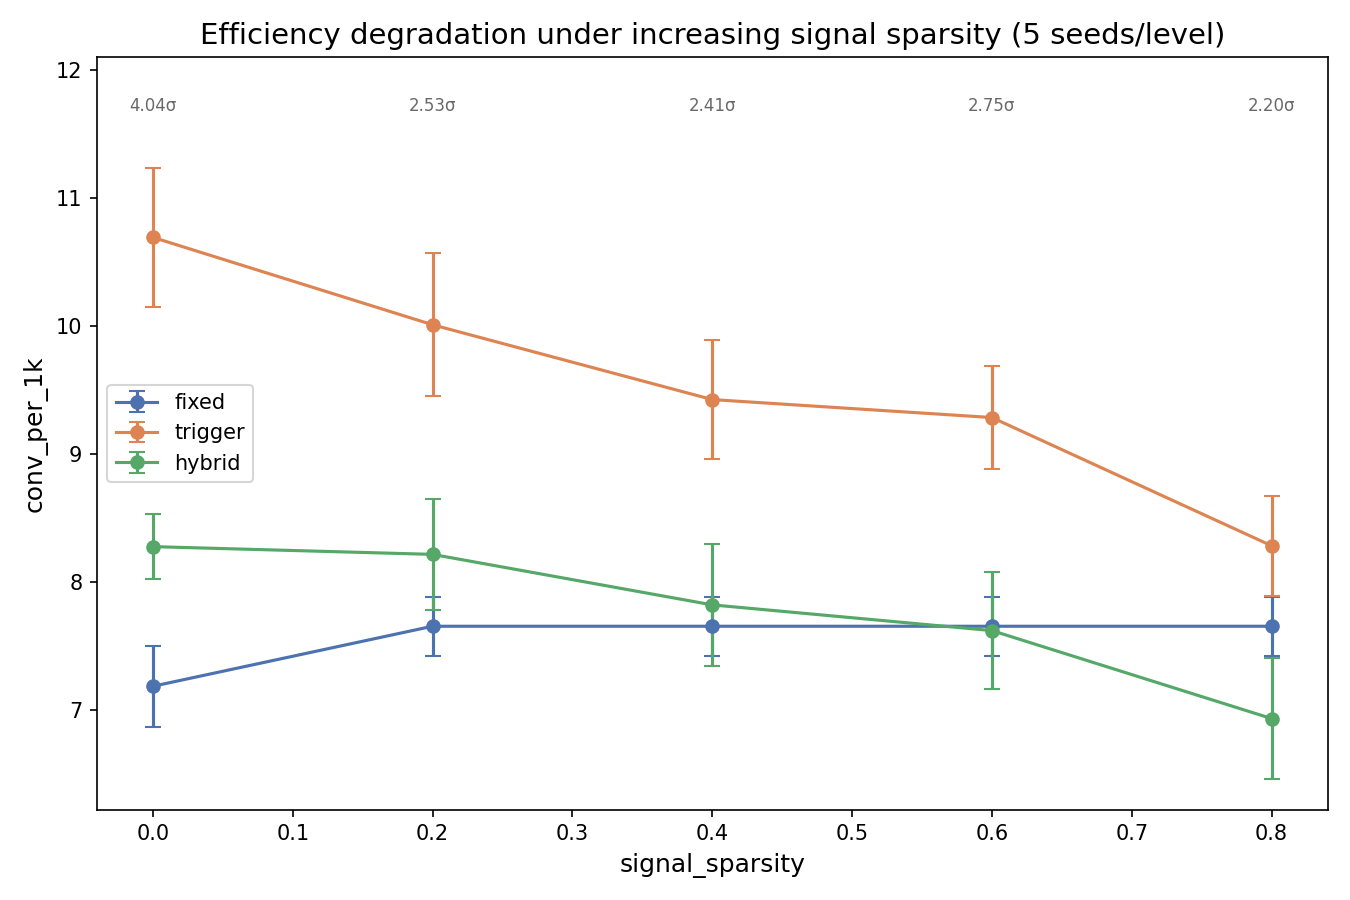
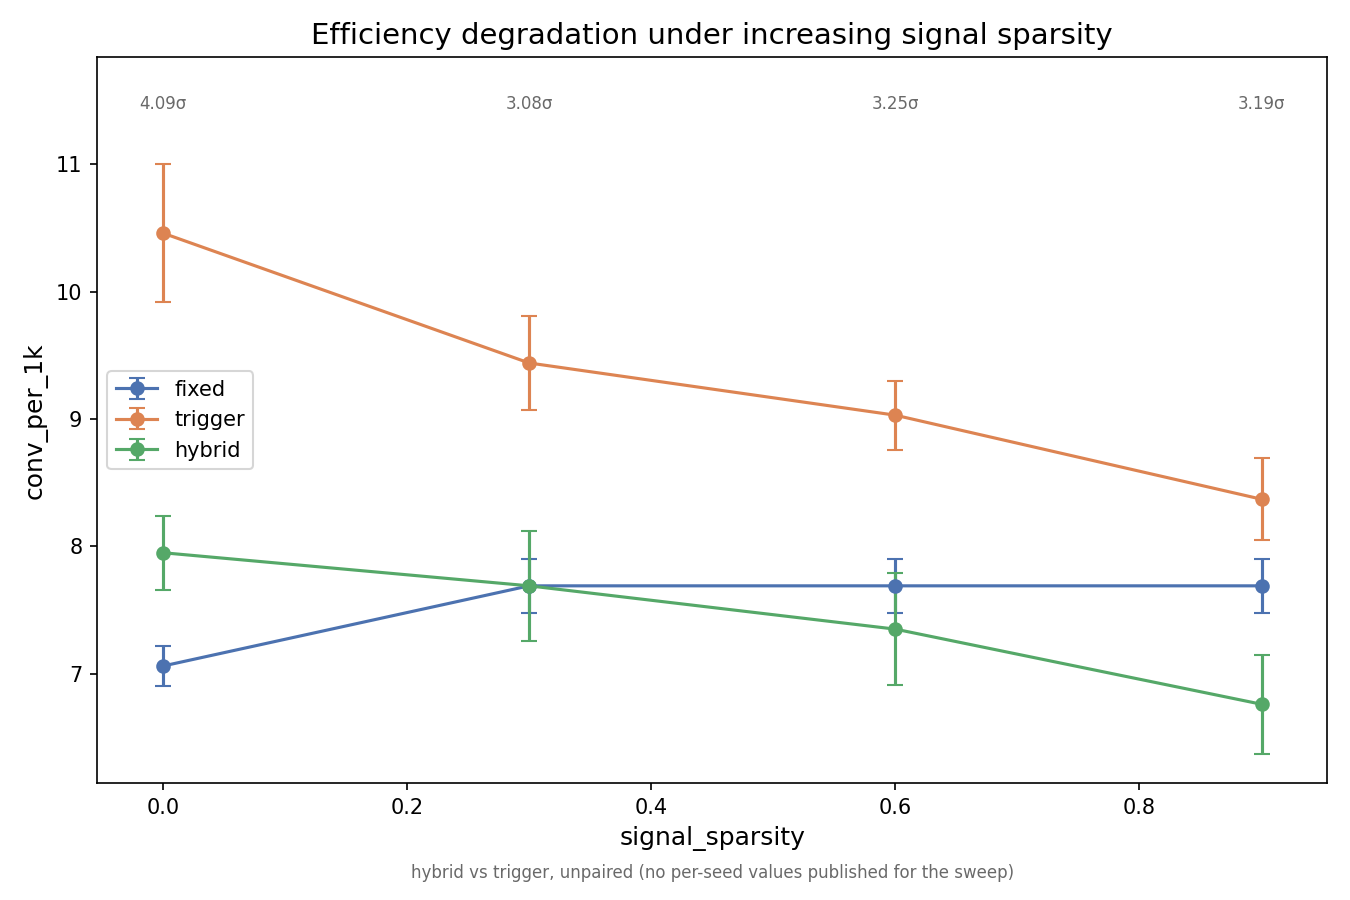
auto done

diff --git a/modules/m2_automation/scripts/make_figures.py b/modules/m2_automation/scripts/make_figures.py
@@ -1,5 +1,7 @@
 import os
+import re
 import sys
+from pathlib import Path
 
 sys.path.insert(0, os.path.dirname(os.path.dirname(os.path.abspath(__file__))))
 
@@ -21,6 +23,21 @@ plt.rcParams.update({
 })
 
 FIGURES_DIR = "outputs/figures"
+
+# The policy figures read the E3 experiment's committed tables, not this
+# module's own pipeline output. E3 is the 30-seed paired run the report and
+# poster cite; `outputs/multiseed_summary.csv` is a separate 20-seed run of the
+# same simulator. Reading E3 here is what stops a chart and the report it
+# illustrates from quietly disagreeing after either side is rerun.
+#
+# No figure below may hardcode a value that appears in these files — every
+# number, including the seed count and the complexity axis, is read from them.
+RESEARCH_RESULTS = Path(__file__).resolve().parents[3] / "research" / "results"
+
+E3_SUMMARY = RESEARCH_RESULTS / "e3_policy_summary.csv"
+E3_CONTESTS = RESEARCH_RESULTS / "e3_policy_contests.csv"
+E3_PER_SEED = RESEARCH_RESULTS / "e3_per_seed.csv"
+E3_SPARSITY = RESEARCH_RESULTS / "e3_sparsity.csv"
 
 STRATEGY_ORDER = ['fixed', 'trigger', 'hybrid']
 STRATEGY_COLORS = {
@@ -60,11 +77,73 @@ def savefig(fig, name, rect=None):
     print(f"Wrote {path}")
 
 
-def significance_ratio(row_a, row_b, mean_col, std_col):
+def e3_summary():
+    """Per-policy headline table, ordered the way every figure plots it."""
+    return pd.read_csv(E3_SUMMARY).set_index('strategy').loc[STRATEGY_ORDER]
+
+
+def e3_per_seed():
+    """One row per (seed, policy) — the spread behind every error bar.
+
+    User-level conversion rate is not a column in the summary table, so it is
+    derived here from the two columns that do exist. Deriving it per seed (not
+    from the pooled totals) is what makes a standard deviation available for it.
+    """
+    per_seed = pd.read_csv(E3_PER_SEED)
+    per_seed['conv_rate'] = per_seed['conversions'] / per_seed['users']
+    return per_seed
+
+
+def contest_difference(contests, left, right):
+    """The mean paired difference `left − right`, as the contests table states it.
+
+    The table holds each pair once in whichever direction E3 ran it, so the
+    reverse direction is served by negating. Splitting on the separator rather
+    than matching the whole string keeps this working whether the file was
+    written with a Unicode minus or an ASCII hyphen.
+    """
+    for _, row in contests.iterrows():
+        parts = re.split(r'\s*[−–-]\s*', str(row['comparison']).strip(), maxsplit=1)
+        if len(parts) != 2:
+            continue
+        a, b = parts[0].strip(), parts[1].strip()
+        if (a, b) == (left, right):
+            return float(row['mean_difference'])
+        if (a, b) == (right, left):
+            return -float(row['mean_difference'])
+    raise KeyError(f"e3_policy_contests.csv has no row comparing {left} and {right}")
+
+
+def paired_sigma(per_seed, contests, left, right, value_col='conversions_per_1000_sends'):
+    """Mean paired difference over the SD of the per-seed differences.
+
+    Every seed puts the same 8,000 users through all three policies, so the
+    runs are paired and the between-seed variance is common to both sides. The
+    spread that the gap should be judged against is therefore the spread of the
+    *differences*, not the spread of each policy measured separately — treating
+    them as independent samples throws the pairing away and understates the
+    separation.
+
+    The mean difference itself comes from the contests table so this annotation
+    and the report quote the same figure; only its SD is recomputed here, since
+    the contests table publishes an interval rather than a standard deviation.
+    """
+    gap = contest_difference(contests, left, right)
+    wide = per_seed.pivot(index='seed', columns='strategy', values=value_col)
+    sd = float((wide[left] - wide[right]).std(ddof=1))
+    return abs(gap) / sd if sd > 0 else float('inf')
+
+
+def unpaired_ratio(row_a, row_b, mean_col, std_col):
+    """Gap over the combined SD, for tables that publish no per-seed values.
+
+    Used only by the sparsity sweep, whose committed table carries a mean and
+    an SD per level but not the individual seeds, so `paired_sigma` cannot be
+    computed there.
+    """
     gap = row_a[mean_col] - row_b[mean_col]
     combined_std = np.sqrt(row_a[std_col] ** 2 + row_b[std_col] ** 2)
-    ratio = abs(gap) / combined_std if combined_std > 0 else float('inf')
-    return ratio
+    return abs(gap) / combined_std if combined_std > 0 else float('inf')
 
 
 def route_for_user(row):
@@ -77,39 +156,49 @@ def route_for_user(row):
 
 
 def figure1_strategy_comparison_bars():
-    summary = pd.read_csv('outputs/multiseed_summary.csv')
-    summary = summary.set_index('strategy').loc[STRATEGY_ORDER].reset_index()
-    colors = [STRATEGY_COLORS[s] for s in summary['strategy']]
+    summary = e3_summary()
+    per_seed = e3_per_seed()
+    contests = pd.read_csv(E3_CONTESTS)
+
+    # Both the seed count in the titles and the axis values are read, never
+    # written into this file.
+    n_seeds = int(per_seed['seed'].nunique())
+    colors = [STRATEGY_COLORS[s] for s in STRATEGY_ORDER]
+
+    # Error bars come from the per-seed values rather than the summary's
+    # rounded sd column, so a whisker is the run's actual spread.
+    eff_std = per_seed.groupby('strategy')['conversions_per_1000_sends'].std(ddof=1)
+    rate = per_seed.groupby('strategy')['conv_rate'].agg(['mean', 'std'])
 
     fig, axes = plt.subplots(1, 2, figsize=(12, 5.5))
 
     ax = axes[0]
-    bars = ax.bar(summary['strategy'], summary['conv_per_1k_mean'],
-                   yerr=summary['conv_per_1k_std'], capsize=6, color=colors)
+    eff_mean = summary['conversions_per_1000_sends']
+    eff_err = eff_std.loc[STRATEGY_ORDER]
+    bars = ax.bar(STRATEGY_ORDER, eff_mean, yerr=eff_err, capsize=6, color=colors)
     offset = ax.get_ylim()[1] * 0.03
-    for bar, val, std in zip(bars, summary['conv_per_1k_mean'], summary['conv_per_1k_std']):
+    for bar, val, std in zip(bars, eff_mean, eff_err):
         ax.text(bar.get_x() + bar.get_width() / 2, bar.get_height() + std + offset,
                 f"{val:.2f}", ha='center', va='bottom')
-    ax.set_title("Per-send conversion efficiency: 20-seed mean")
+    ax.set_title(f"Per-send conversion efficiency: {n_seeds}-seed mean")
     ax.set_ylabel("Conversions per 1000 sends")
     ax.set_ylim(0, ax.get_ylim()[1] * 1.1)
 
     ax2 = axes[1]
-    conv_rate_pct = summary['conv_rate_mean'] * 100
-    conv_rate_std_pct = summary['conv_rate_std'] * 100
-    bars2 = ax2.bar(summary['strategy'], conv_rate_pct, yerr=conv_rate_std_pct, capsize=6, color=colors)
+    conv_rate_pct = rate.loc[STRATEGY_ORDER, 'mean'] * 100
+    conv_rate_std_pct = rate.loc[STRATEGY_ORDER, 'std'] * 100
+    bars2 = ax2.bar(STRATEGY_ORDER, conv_rate_pct, yerr=conv_rate_std_pct, capsize=6, color=colors)
     offset2 = ax2.get_ylim()[1] * 0.03
     for bar, val, std in zip(bars2, conv_rate_pct, conv_rate_std_pct):
         ax2.text(bar.get_x() + bar.get_width() / 2, bar.get_height() + std + offset2,
                   f"{val:.2f}%", ha='center', va='bottom')
-    ax2.set_title("User-level conversion rate: 20-seed mean")
+    ax2.set_title(f"User-level conversion rate: {n_seeds}-seed mean")
     ax2.set_ylabel("Conversion rate (%)")
     ax2.set_ylim(0, ax2.get_ylim()[1] * 1.1)
 
-    row = {s: summary[summary['strategy'] == s].iloc[0] for s in STRATEGY_ORDER}
-    tf = significance_ratio(row['trigger'], row['fixed'], 'conv_per_1k_mean', 'conv_per_1k_std')
-    hf = significance_ratio(row['hybrid'], row['fixed'], 'conv_per_1k_mean', 'conv_per_1k_std')
-    ht = significance_ratio(row['hybrid'], row['trigger'], 'conv_per_1k_mean', 'conv_per_1k_std')
+    tf = paired_sigma(per_seed, contests, 'trigger', 'fixed')
+    hf = paired_sigma(per_seed, contests, 'hybrid', 'fixed')
+    ht = paired_sigma(per_seed, contests, 'hybrid', 'trigger')
     annotation = (
         f"Trigger vs Fixed: {tf:.2f}σ | "
         f"Hybrid vs Fixed: {hf:.2f}σ | "
@@ -157,23 +246,28 @@ def figure2_funnel_by_strategy():
 
 
 def figure3_sparsity_sweep():
-    summary = pd.read_csv('outputs/sparsity_sweep_summary.csv')
+    summary = pd.read_csv(E3_SPARSITY)
 
     fig, ax = plt.subplots(figsize=(9, 6))
     for strat in STRATEGY_ORDER:
-        sub = summary[summary['strategy'] == strat].sort_values('sparsity')
-        ax.errorbar(sub['sparsity'], sub['conv_per_1k_mean'], yerr=sub['conv_per_1k_std'],
+        sub = summary[summary['strategy'] == strat].sort_values('signal_sparsity')
+        ax.errorbar(sub['signal_sparsity'], sub['conversions_per_1000_sends'], yerr=sub['sd'],
                      label=strat, color=STRATEGY_COLORS[strat], marker='o', capsize=4)
 
     ax.set_xlabel("signal_sparsity")
     ax.set_ylabel("conv_per_1k")
-    ax.set_title("Efficiency degradation under increasing signal sparsity (5 seeds/level)")
+    # No seed count in the title: the sweep's committed table publishes a mean
+    # and an SD per level, not the individual seeds, so there is nothing to
+    # read it from and it will not be asserted.
+    ax.set_title("Efficiency degradation under increasing signal sparsity")
     ax.legend(loc='center left')
+    ax.margins(x=0.06)   # keeps the last σ label clear of the right spine
 
-    hybrid_sub = summary[summary['strategy'] == 'hybrid'].sort_values('sparsity').reset_index(drop=True)
-    trigger_sub = summary[summary['strategy'] == 'trigger'].sort_values('sparsity').reset_index(drop=True)
+    hybrid_sub = summary[summary['strategy'] == 'hybrid'].sort_values('signal_sparsity').reset_index(drop=True)
+    trigger_sub = summary[summary['strategy'] == 'trigger'].sort_values('signal_sparsity').reset_index(drop=True)
+    # Unpaired, unlike figure 1: this table has no per-seed rows to pair on.
     ratios = [
-        significance_ratio(hybrid_sub.iloc[i], trigger_sub.iloc[i], 'conv_per_1k_mean', 'conv_per_1k_std')
+        unpaired_ratio(hybrid_sub.iloc[i], trigger_sub.iloc[i], 'conversions_per_1000_sends', 'sd')
         for i in range(len(hybrid_sub))
     ]
 
@@ -181,26 +275,30 @@ def figure3_sparsity_sweep():
     headroom_top = ymax + (ymax - ymin) * 0.12
     ax.set_ylim(ymin, headroom_top)
     annotation_y = ymax + (ymax - ymin) * 0.04
-    for x, r in zip(hybrid_sub['sparsity'], ratios):
+    for x, r in zip(hybrid_sub['signal_sparsity'], ratios):
         ax.annotate(f"{r:.2f}σ", xy=(x, annotation_y), ha='center', fontsize=8, color='dimgray')
+    ax.annotate("hybrid vs trigger, unpaired (no per-seed values published for the sweep)",
+                xy=(0.5, -0.13), xycoords='axes fraction', ha='center',
+                fontsize=8, color='dimgray')
 
     savefig(fig, 'sparsity_sweep.png')
 
 
 def figure4_complexity_vs_performance():
-    from src.strategies.fixed import OPERATIONAL_COMPLEXITY as FIXED_COMPLEXITY
-    from src.strategies.hybrid import OPERATIONAL_COMPLEXITY as HYBRID_COMPLEXITY
-    from src.strategies.trigger import OPERATIONAL_COMPLEXITY as TRIGGER_COMPLEXITY
-
-    complexity = {'fixed': FIXED_COMPLEXITY, 'trigger': TRIGGER_COMPLEXITY, 'hybrid': HYBRID_COMPLEXITY}
-    summary = pd.read_csv('outputs/multiseed_summary.csv').set_index('strategy')
+    # Complexity is read from the experiment's own output, not from the
+    # strategy modules' OPERATIONAL_COMPLEXITY constants. E3 counts distinct
+    # decision rules per policy and writes that count next to the result it
+    # produced; the constants are a different, unrelated scale.
+    summary = e3_summary()
+    per_seed = e3_per_seed()
+    rate = per_seed.groupby('strategy')['conv_rate'].mean()
 
     fig, axes = plt.subplots(1, 2, figsize=(12, 5.5))
 
     ax1 = axes[0]
     for strat in STRATEGY_ORDER:
-        x = complexity[strat]
-        y = summary.loc[strat, 'conv_per_1k_mean']
+        x = summary.loc[strat, 'operational_complexity']
+        y = summary.loc[strat, 'conversions_per_1000_sends']
         ax1.scatter(x, y, s=350, color=STRATEGY_COLORS[strat], edgecolor='black', zorder=3)
         ax1.annotate(strat, (x, y), textcoords='offset points', xytext=(10, 10), fontsize=11)
     ax1.set_xlabel("Operational complexity")
@@ -209,10 +307,19 @@ def figure4_complexity_vs_performance():
 
     ax2 = axes[1]
     for strat in STRATEGY_ORDER:
-        x = complexity[strat]
-        y = summary.loc[strat, 'conv_rate_mean'] * 100
+        x = summary.loc[strat, 'operational_complexity']
+        y = rate.loc[strat] * 100
         ax2.scatter(x, y, s=350, color=STRATEGY_COLORS[strat], edgecolor='black', zorder=3)
         ax2.annotate(strat, (x, y), textcoords='offset points', xytext=(10, 10), fontsize=11)
+
+    # The labels sit above and right of their points, so both axes need room
+    # for them. The complexity scale is read from the file, so the padding is
+    # expressed relative to the data rather than as fixed limits.
+    for ax, values in ((ax1, summary['conversions_per_1000_sends']), (ax2, rate * 100)):
+        span = float(values.max() - values.min()) or 1.0
+        ax.set_ylim(float(values.min()) - span * 0.2, float(values.max()) + span * 0.25)
+        ax.set_xlim(0, float(summary['operational_complexity'].max()) + 2)
+
     ax2.set_xlabel("Operational complexity")
     ax2.set_ylabel("User-level conversion rate (%)")
     ax2.set_title("Complexity vs user-level conversion")
